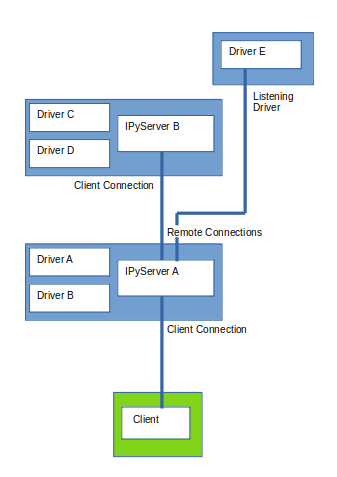
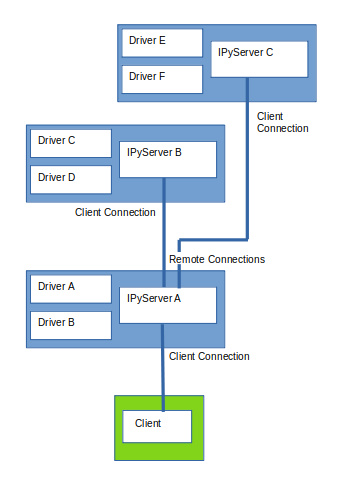
Removed driver listenning method

diff --git a/indipydriver/comms.py b/indipydriver/comms.py
@@ -60,6 +60,17 @@ async def queueget(queue, timeout=0.5):
     return False, value
 
 
+def cleanque(que):
+    "Clears out a que"
+    try:
+        while True:
+            xmldata = que.get_nowait()
+            que.task_done()
+    except asyncio.QueueEmpty:
+        # que is now empty, nothing further to do
+        pass
+
+
 class STDOUT_TX:
     "An object that transmits data on stdout, used by STDINOUT as one half of the communications path"
 
@@ -279,14 +290,3 @@ class STDINOUT():
         await asyncio.gather(self.rx.run_rx(readerque),
                              self.tx.run_tx(writerque)
                              )
-
-
-def cleanque(que):
-    "Clears out a que"
-    try:
-        while True:
-            xmldata = que.get_nowait()
-            que.task_done()
-    except asyncio.QueueEmpty:
-        # que is now empty, nothing further to do
-        pass

diff --git a/indipydriver/ipydriver.py b/indipydriver/ipydriver.py
@@ -418,8 +418,7 @@ class IPyDriver(collections.UserDict):
 
     async def asyncrun(self):
         """await this to operate the driver, which will then communicate by
-           stdin and stdout, unless the listen method is called first, in
-           which case it will listen via the specified port.
+           stdin and stdout.
 
            Do not await this if the driver is being set into IPyServer, in
            that situation the IPyServer will control communications."""

diff --git a/docs/source/usage/ipydriver.rst b/docs/source/usage/ipydriver.rst
@@ -54,22 +54,17 @@ With debug_enable set to False, then xml traffic will not be logged at the drive
 
 ----
 
-There are three ways a driver can be run, assuming 'driver' is an instance of this class.
+There are two ways a driver can be run, assuming 'driver' is an instance of this class.
 
 This coroutine outputs the xml data on stdout, and reads it on stdin::
 
         await driver.asyncrun()
 
-Normally this will be awaited together with any other co-routines needed to run your instrument. Making your script executable, and using the above method should allow your driver to work with other parties INDI server software that expect stdin and stdout streams from drivers.
+This could be awaited together with any other co-routines needed to run your instrument. Making your script executable, and using the above method should allow your driver to work with other parties INDI server software that expect stdin and stdout streams from drivers.
 
 Alternatively, use indipydriver.IPyServer, this listens on the given host and port, to which a client can connect. Multiple drivers can be served, and multiple client connections can be made::
 
         server = IPyServer(*drivers, host="localhost", port=7624, maxconnections=5)
         await server.asyncrun()
 
-And a further method which also listens on a host and port, but with a single connection only is shown here. It may be useful in some circumstances as it avoids the code associated with IPyServer::
-
-        driver.listen(host="localhost", port=7624)
-        await driver.asyncrun()
-
-In both of the above cases you would use indipyclient, or other INDI client, to connect to this port, however note that if your client is running remotely, and you are connecting over a network, then in the above commands "localhost" would need to be changed to the IP address of the servers listening port, or to "0.0.0.0" to listen on all ports.
+You would use then use indipyterm, or other INDI client, to connect to this port, however note that if your client is running remotely, and you are connecting over a network, then in the above command "localhost" would need to be changed to the IP address of the servers listening port, or to "0.0.0.0" to listen on all ports.

diff --git a/docs/source/usage/ipyserver.rst b/docs/source/usage/ipyserver.rst
@@ -39,8 +39,6 @@ Another layout might be:
 
 .. image:: ./images/rem2.png
 
-In this case Driver E is 'Listening' on a port, rather than using IPyServer, this reduces the code involved in running the driver.
-
 add_exdriver
 ^^^^^^^^^^^^
 
